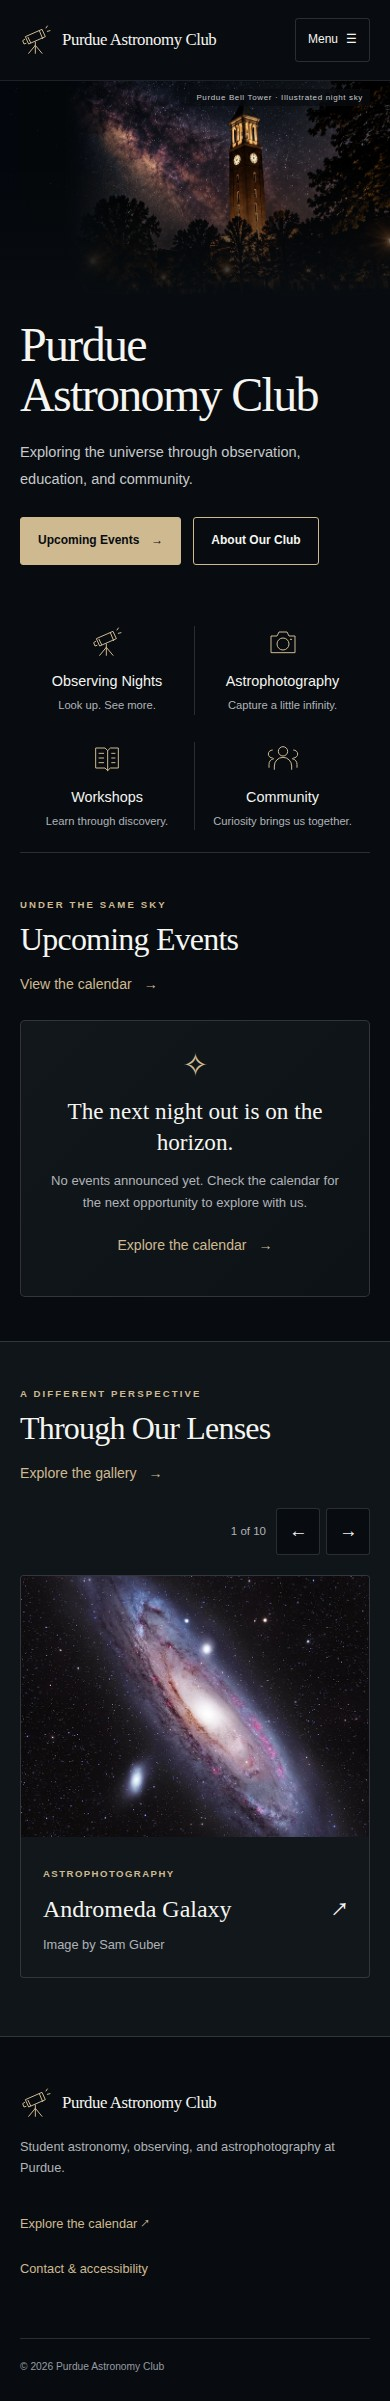
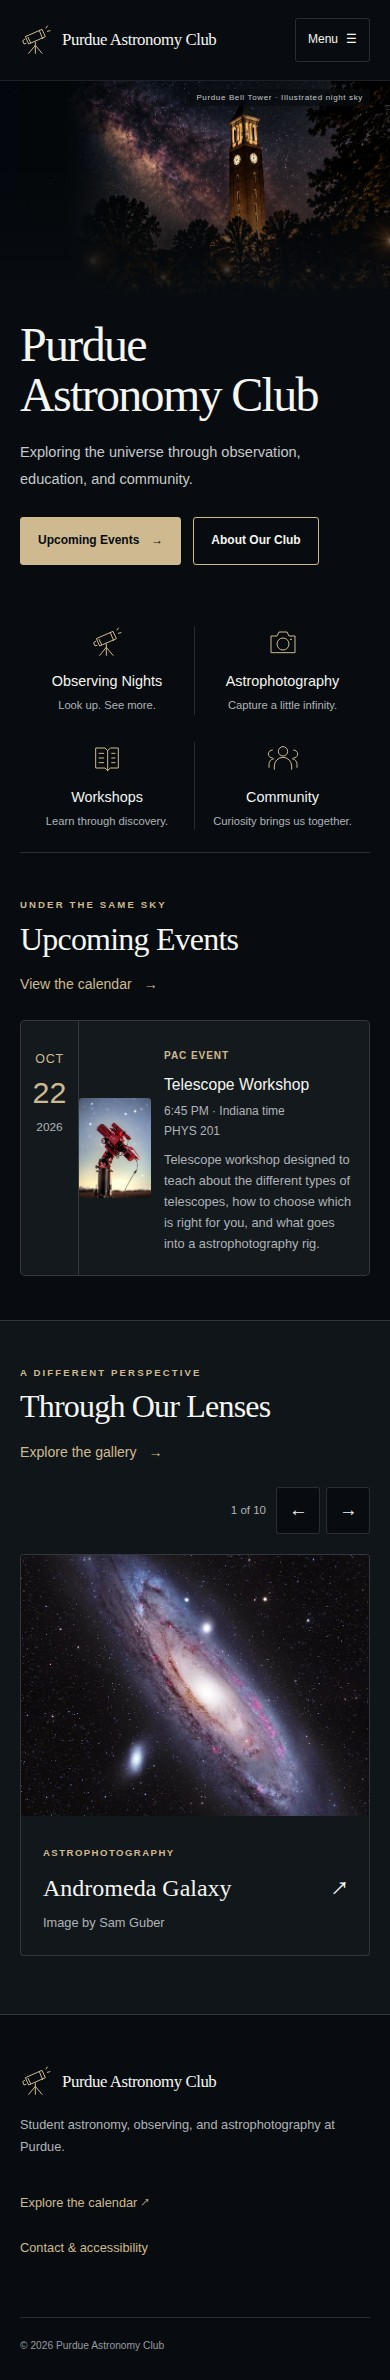
Fix CMS event publishing and isolate integration fixtures

diff --git a/tests/test_integration.py b/tests/test_integration.py
@@ -23,8 +23,17 @@ class IntegrationTests(unittest.TestCase):
         with tempfile.TemporaryDirectory() as tmp:
             root=Path(tmp)
             for folder in ['content','data','assets','layouts','static']:
-                ignore=shutil.ignore_patterns('media','drive-gallery','astronomy','events','events.json','months.json','calendar.ics') if folder=='static' else None
+                ignore=shutil.ignore_patterns('uploads','media','astronomy','events','events.json','months.json','calendar.ics') if folder=='static' else None
                 shutil.copytree(ROOT/folder,root/folder,ignore=ignore)
+            # Keep the site's layouts and section pages, but populate collections
+            # and settings with fixtures rather than the club's current CMS data.
+            for entry in (root/'content').glob('*/*.md'):
+                if not entry.name.startswith('_'):
+                    entry.unlink()
+            (root/'static/uploads').mkdir(parents=True,exist_ok=True)
+            (root/'data/calendar/banners.yml').write_text('[]\n')
+            (root/'data/home.yml').write_text('show_gallery: true\n')
+            (root/'data/site.yml').write_text('{}\n')
             shutil.copy(ROOT/'hugo.yaml',root/'hugo.yaml')
             (root/'data/astronomy.yml').write_text('enabled: false\n')
             def write(section,slug,record):
@@ -47,6 +56,7 @@ class IntegrationTests(unittest.TestCase):
                 subprocess.run([hugo,'--source',str(root),'--minify','--cleanDestinationDir'],check=True,capture_output=True)
                 validate(root/'public')
             build()
+            self.assertEqual([r['id'] for r in json.loads((root/'public/events.json').read_text())],['events/fixture-event'])
             homepage=(root/'public/index.html').read_text()
             self.assertIn('Fixture event',homepage)
             self.assertEqual(homepage.count('carousel-slide'),4)

diff --git a/tests/test_drive_gallery.py b/tests/test_drive_gallery.py
@@ -256,7 +256,16 @@ class DriveGalleryTests(unittest.TestCase):
         if not hugo:
             self.skipTest('Hugo is needed for full gallery integration')
         for folder in ['content', 'data', 'assets', 'layouts', 'static']:
-            shutil.copytree(ROOT/folder, self.root/folder, dirs_exist_ok=True)
+            ignore = shutil.ignore_patterns('uploads', 'media', 'astronomy', 'events', 'events.json', 'months.json', 'calendar.ics') if folder == 'static' else None
+            shutil.copytree(ROOT/folder, self.root/folder, dirs_exist_ok=True, ignore=ignore)
+        # A real CMS event, album or officer record must not become a fixture or
+        # require the club's uploaded photos in this isolated gallery build.
+        for entry in (self.root/'content').glob('*/*.md'):
+            if not entry.name.startswith('_'):
+                entry.unlink()
+        (self.root/'data/calendar/banners.yml').write_text('[]\n')
+        (self.root/'data/home.yml').write_text('show_gallery: true\n')
+        (self.root/'data/site.yml').write_text('{}\n')
         shutil.copy(ROOT/'hugo.yaml', self.root/'hugo.yaml')
         (self.root/'data/astronomy.yml').write_text('enabled: false\n')
         self.config['photos'] = [{'filename': self.client.files[0]['name'], 'caption': 'Spiral arms & a bright core.'}]
@@ -269,6 +278,7 @@ class DriveGalleryTests(unittest.TestCase):
             shutil.copytree(self.root/'.generated/uploads', self.root/'public/uploads', dirs_exist_ok=True)
             validate(self.root/'public')
         build()
+        self.assertEqual(json.loads((self.root/'public/events.json').read_text()), [])
         gallery = (self.root/'public/gallery/index.html').read_text()
         self.assertIn('Andromeda Galaxy', gallery)
         self.assertIn('Image by Jane Doe', gallery)

diff --git a/tests/test_content.py b/tests/test_content.py
@@ -7,7 +7,7 @@ import unittest
 import yaml
 from PIL import Image
 sys.path.insert(0, str(Path(__file__).resolve().parents[1]/'scripts'))
-from content import ROOT, TZ, collect, normalize, local_datetime, public_url
+from content import ROOT, TZ, collect, normalize, local_datetime, public_url, read_record
 from build_calendar import calendar_bytes, generate
 from optimize_images import optimize
 from icalendar import Calendar
@@ -32,6 +32,18 @@ class ContentTests(unittest.TestCase):
         return path
     def norm(self, **changes):
         return normalize(dict(BASE_EVENT, **changes),'events','test-event',self.now)
+    def test_cms_unquoted_clock_values_remain_text(self):
+        record=dict(BASE_EVENT,start_time='18:45',end_time='20:15',display_order=10)
+        path=self.write(record)
+        path.write_text(path.read_text().replace("'18:45'",'18:45').replace("'20:15'",'20:15'))
+        parsed,_=read_record(path)
+        self.assertEqual(parsed['start_time'],'18:45')
+        self.assertEqual(parsed['end_time'],'20:15')
+        self.assertIs(parsed['draft'],False)
+        self.assertEqual(parsed['display_order'],10)
+        events,_=collect(self.root,self.now)
+        self.assertEqual(events[0]['start'],'2026-11-12T18:45:00-05:00')
+        self.assertEqual(events[0]['end'],'2026-11-12T20:15:00-05:00')
     def test_draft_not_in_feed(self):
         self.write(dict(BASE_EVENT,draft=True))
         self.assertEqual(collect(self.root)[0],[])

diff --git a/scripts/content.py b/scripts/content.py
@@ -13,8 +13,21 @@ BASE = 'https://purdueastro.club'
 TYPES = {'pac': 'PAC event', 'joint': 'Joint event', 'astronomy': 'Astronomy'}
 
 
+class ContentLoader(yaml.SafeLoader):
+    """Keep CMS clock strings instead of YAML 1.1's obsolete base-60 integers."""
+
+
+def integer_or_clock(loader, node):
+    if ':' in node.value:
+        return loader.construct_scalar(node)
+    return yaml.SafeLoader.construct_yaml_int(loader, node)
+
+
+ContentLoader.add_constructor('tag:yaml.org,2002:int', integer_or_clock)
+
+
 def read_yaml(path):
-    return yaml.safe_load(path.read_text())
+    return yaml.load(path.read_text(), Loader=ContentLoader)
 
 
 def read_record(path):
@@ -22,7 +35,7 @@ def read_record(path):
     if not text.startswith('---\n'):
         raise ValueError('Entry needs YAML front matter')
     parts = text.split('---', 2)
-    return yaml.safe_load(parts[1]) or {}, parts[2].strip()
+    return yaml.load(parts[1], Loader=ContentLoader) or {}, parts[2].strip()
 
 
 def day(value):

diff --git a/docs/TEST_REPORT.md b/docs/TEST_REPORT.md
@@ -143,3 +143,9 @@ The design retains the dark canvas, Purdue-inspired gold, serif hierarchy, trans
 - Manual CMS upload originals are public Git history. Production derivatives strip metadata; the pre-upload tool and contributor review address those originals before publication. Drive originals stay in Drive; only sanitized web copies were included in the initial source snapshot.
 - Optional poster exports derive from website records. Dense layouts fail with an explanation instead of silently cropping or hiding events. The printable PDF contains the verified PNG on a single sheet; the website remains the accessible interactive source.
 - Existing real CMS screenshots, actual upload saves, remote Actions, production DNS/HTTPS, and officer permissions are **not claimed as passed**. Those depend on the owner’s account actions.
+
+## CMS event publishing correction
+
+The first published Telescope Workshop event had a cover image without its required accessibility description. Its image was inspected and a description added; the CMS field label now makes the requirement explicit. The CMS also emits valid clock strings such as `18:45` without YAML quotes. PyYAML’s legacy YAML 1.1 integer constructor treated that value as a base-60 number. A SafeLoader subclass now preserves colon-containing integer scalars as text while retaining ordinary integer/boolean handling and safe loading. The regression test checks both unquoted start/end times and their normalized Indiana timestamps. The workshop normalizes to October 22, 2026 at 6:45 PM Indiana time.
+
+The isolated Hugo integration tests now use fixture-only collections, settings and uploads, rather than importing current published CMS records. Their explicit fixture-ID/empty-feed checks guard against future content changing test expectations. The full content validation still runs for the actual production build. All 67 Python tests and 55 browser checks passed, with one intentional duplicate screenshot skip. An offline production-shaped build validated 186 calendar entries, prepared 19 images, and checked 751 output files. Live Drive authentication is checked separately by the GitHub production build using its repository secret.

diff --git a/docs/OFFICER_GUIDE.md b/docs/OFFICER_GUIDE.md
@@ -22,7 +22,7 @@ A CMS Save creates a GitHub commit. GitHub Actions validates the content, builds
 4. Set the date and 24-hour local time: `19:00` means 7 PM. Times use Purdue’s Indiana time zone, with daylight saving handled automatically. Do not convert to UTC yourself.
 5. For a timed event, leave End date blank if it ends the same day; supply End time if known. If End time is blank the calendar invitation uses a one-hour duration. For overnight events, supply both End date and End time. For all-day events, turn All-day on; the last occupied date is inclusive.
 6. Add a confirmed location, optional address/map link, optional public signup link, and full description using the rich-text editor.
-7. Optionally select/upload a prepared cover image, then describe it in the alt text field.
+7. Optionally select/upload a prepared cover image. If you select a photo, fill in **Describe cover photo (required when a photo is selected)** with a brief description of what it shows. This description is required for publication.
 8. Set status to Scheduled, confirm the details, turn Draft off, and Save.
 9. Check the Actions run, the public calendar, and the event detail page.
 

diff --git a/content/events/telescope.md b/content/events/telescope.md
@@ -12,4 +12,5 @@ start_time: 18:45
 all_day: false
 location: PHYS 201
 cover_image: /uploads/mvjumhym-ffummln1.png
+cover_alt: Red-lit telescope and camera equipment on an equatorial mount beneath a starry sky.
 ---
